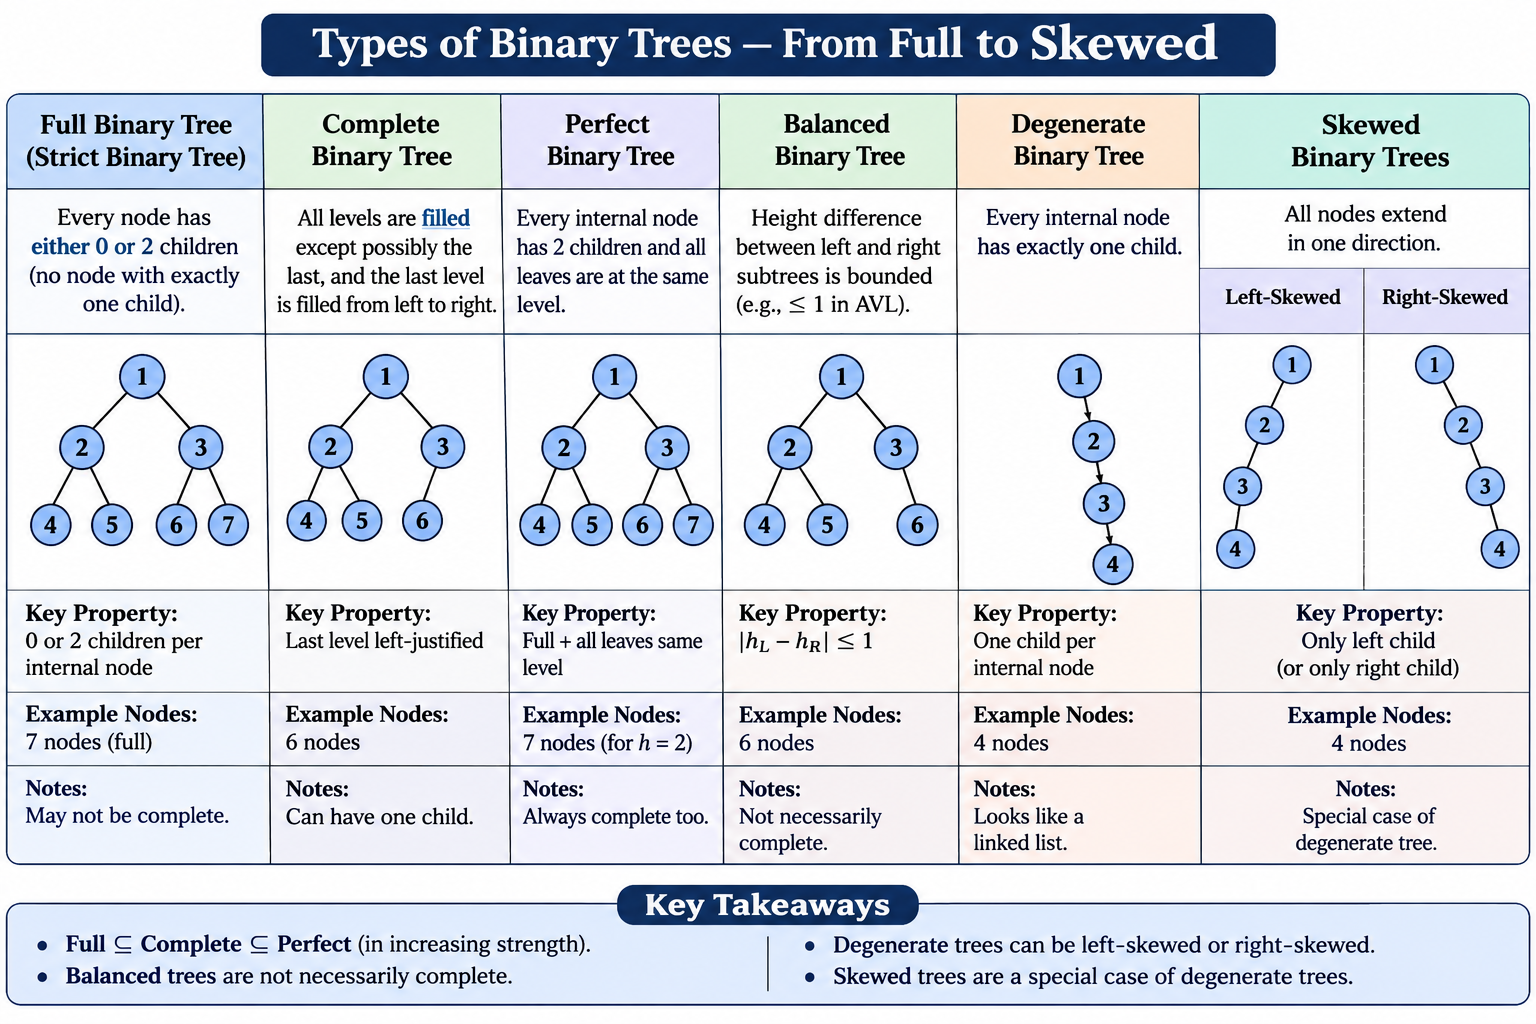
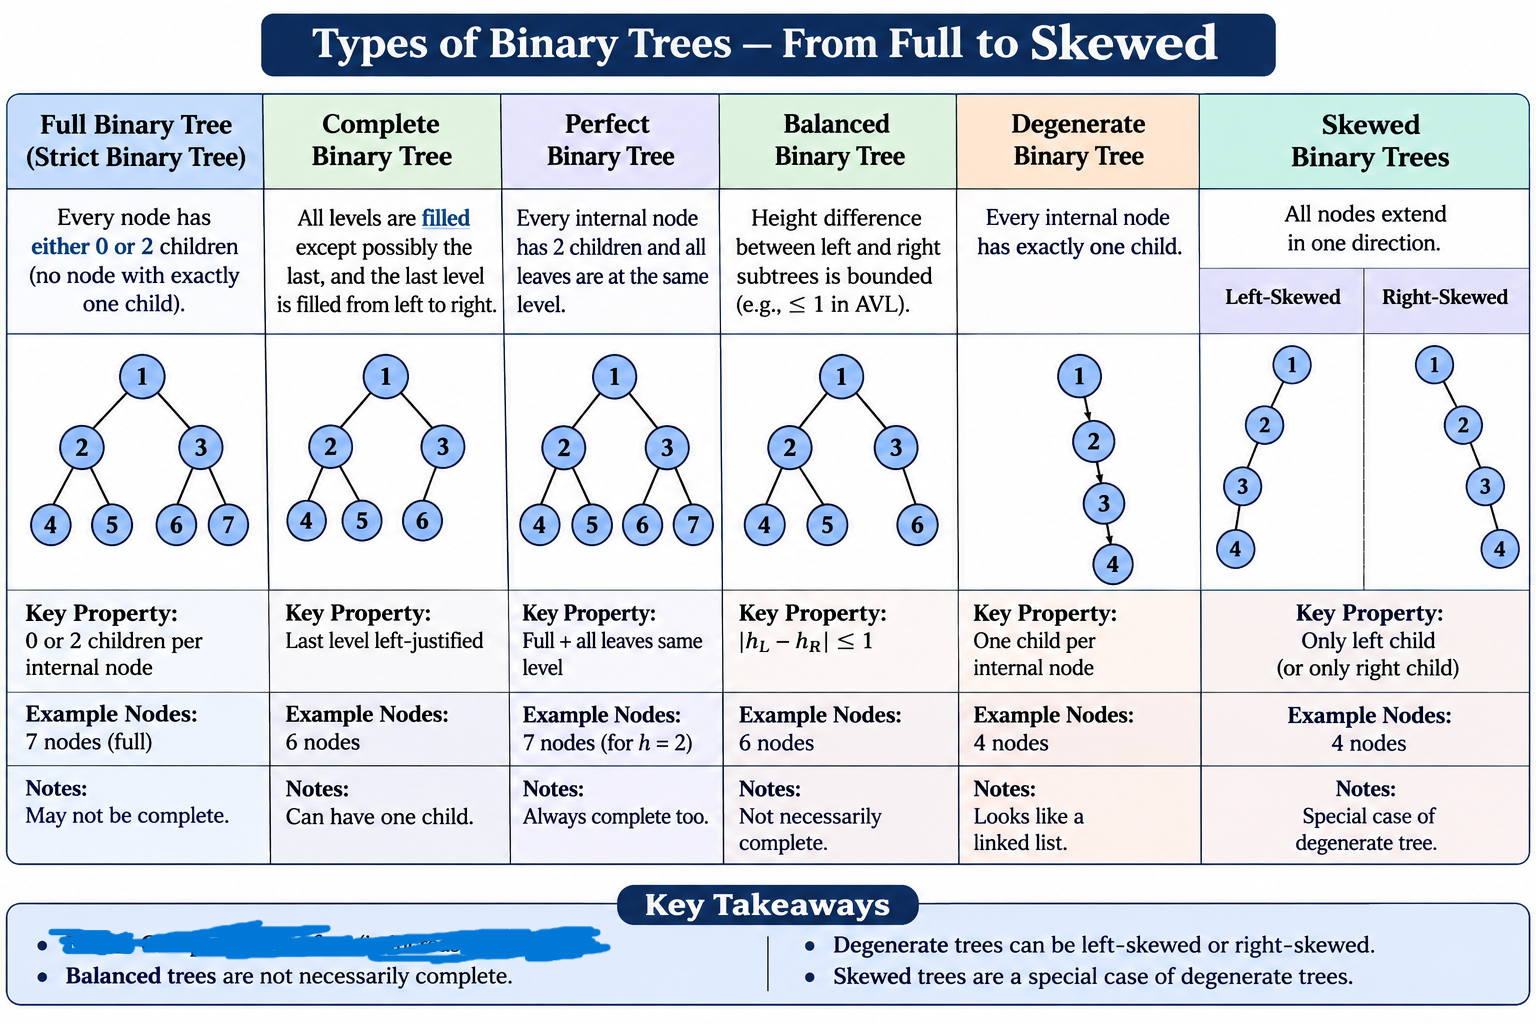
Updates
- updated diagram of Types of Binary Trees
- Heap Deletion and Insertion code added

Changed region(s): [[0.0312, 0.875, 0.4062, 0.9375]]

diff --git a/DSA/Unit-5/Heap/HeapDeletion.cpp b/DSA/Unit-5/Heap/HeapDeletion.cpp
@@ -1,0 +1,100 @@
+#include <iostream>
+using namespace std;
+
+struct MaxHeap
+{
+    int arr[1000];
+    int size;
+
+public:
+    MaxHeap()
+    {
+        size = 0;
+    }
+
+    void insertElement(int val)
+    {
+        if (size == 1000 - 1)
+        {
+            cout << "Heap full";
+            return;
+        }
+        arr[size] = val;
+        int i = size;
+        size++;
+        while (i > 0 && arr[i] > arr[(i - 1) / 2])
+        {
+            swap(arr[i], arr[(i - 1) / 2]);
+            i = (i - 1) / 2;
+        }
+    }
+
+    void deletePeakElement()
+    {
+        if (size == 0)
+        {
+            cout << "Heap is empty";
+            return;
+        }
+
+        int temp = arr[size - 1];
+        size--;
+        arr[0] = temp;
+
+        int i = 0;
+
+        while (true)
+        {
+            int left = 2 * i + 1;
+            int right = 2 * i + 2;
+
+            int largest = i;
+
+            if (left < size && arr[left] > arr[largest])
+            {
+                largest = left;
+            }
+
+            if (right < size && arr[right] > arr[largest])
+            {
+                largest = right;
+            }
+
+            if (largest == i)
+            {
+                break;
+            }
+
+            swap(arr[i], arr[largest]);
+
+            i = largest;
+        }
+    }
+
+    int getPeak()
+    {
+        if (size == 0)
+        {
+            return -1; // its better to throw exception here
+        }
+        else
+        {
+            return arr[0];
+        }
+    }
+};
+
+int main()
+{
+    MaxHeap h;
+    h.insertElement(10);
+    h.insertElement(20);
+    h.insertElement(30);
+    h.insertElement(40);
+    h.insertElement(20);
+    h.insertElement(5);
+    h.insertElement(50);
+    h.deletePeakElement();
+    cout << h.getPeak();
+    return 0;
+}

diff --git a/DSA/Unit-5/Heap/HeapInsertion.cpp b/DSA/Unit-5/Heap/HeapInsertion.cpp
@@ -1,0 +1,48 @@
+#include <iostream>
+using namespace std;
+
+struct MaxHeap{
+    int arr[1000] ;
+    int size ;
+    
+    public:
+        MaxHeap(){
+            size= 0 ;
+        }
+
+        void insertElement(int val){
+            if(size==1000-1){
+                cout<<"Heap full" ;
+                return ;
+            }       
+            arr[size]= val ;
+            int i = size ;
+            size++ ;
+            while(i>0 && arr[i]>arr[(i-1)/2]){
+                swap(arr[i], arr[(i-1)/2]) ;
+                i = (i-1)/2 ;
+            }
+        }
+
+        int getPeak(){
+            if(size==0){
+                return -1 ; //its better to throw exception here
+            } else {
+                return arr[0] ;
+            }
+        }
+};
+
+int main() 
+{
+    MaxHeap h ;
+    h.insertElement(10) ;
+    h.insertElement(20) ;
+    h.insertElement(30) ;
+    h.insertElement(40) ;
+    h.insertElement(20) ;
+    h.insertElement(5) ;
+    h.insertElement(50) ;
+    cout<<h.getPeak() ;
+    return 0;
+}
